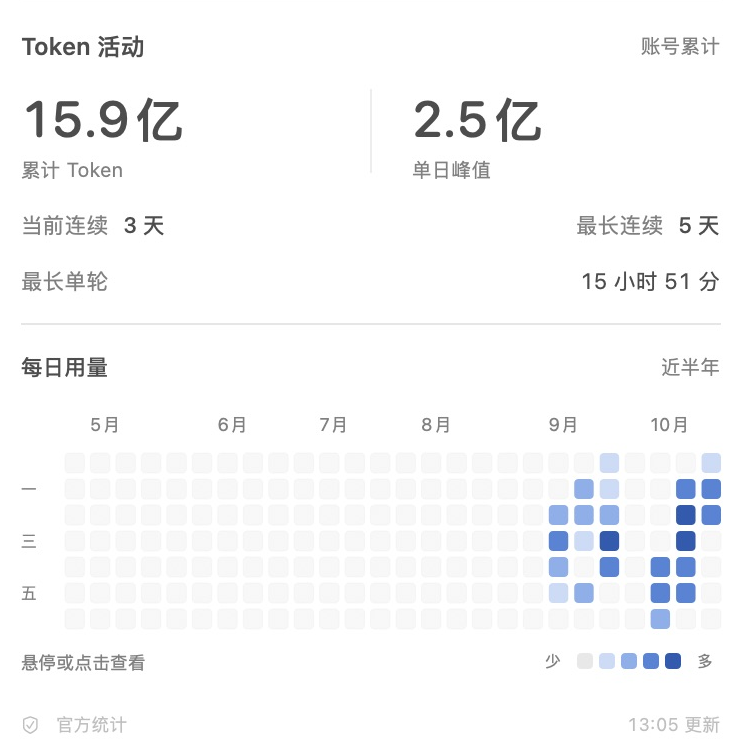
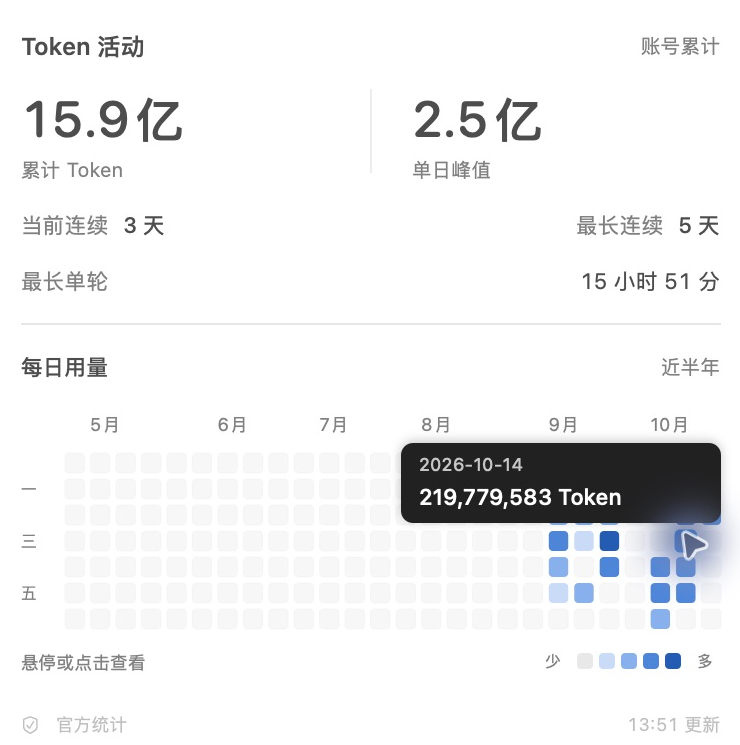
Add actual stacked menu bar and heatmap tooltip screenshots

Changed region(s): [[0.5284, 0.5866, 0.9946, 0.8027], [0.9014, 0.957, 0.9324, 0.9879]]

diff --git a/README.md b/README.md
@@ -28,6 +28,12 @@ CodexUsageBar 是一个轻量的原生 macOS 菜单栏工具，使用 Swift、Ap
 
 以下为维护者在 macOS 上运行 **v0.1.1** 的实际截图（2026-10-21），账号信息已遮盖。额度和 Token 数值仅代表截图时的账号状态；界面当前为中文。
 
+### 菜单栏实际效果
+
+原生菜单栏双行显示：上方为 **7 天剩余与重置日期**，下方为 **5 小时剩余与重置时间**，左侧为 Codex 图标。点击后展开额度面板；显示内容、标签和分隔符均可在设置中调整。
+
+<img src="docs/images/screenshots/menubar-live.png" width="440" alt="macOS 菜单栏实际双行效果：上方 7d 75% / 10-27，下方 5h 98% / 18:52，点击展开 CodexUsageBar 面板；账号已遮盖">
+
 ### 额度面板与 Token 活动
 
 点击菜单栏即可查看两个独立窗口的剩余额度、重置时间及核验状态；下方展示累计 Token、单日峰值、连续活跃天数与近半年每日活动。热力图支持悬停或点击日期查看详情。
@@ -35,11 +41,11 @@ CodexUsageBar 是一个轻量的原生 macOS 菜单栏工具，使用 Swift、Ap
 <table>
   <tr>
     <th>完整额度面板</th>
-    <th>Token 统计与活动热力图（局部）</th>
+    <th>Token 统计与热力图日期提示（局部）</th>
   </tr>
   <tr>
     <td valign="top"><img src="docs/images/screenshots/quota-panel.png" width="360" alt="CodexUsageBar 实际额度面板：5 小时与 7 天剩余额度、重置时间、Token 统计和热力图"></td>
-    <td valign="top"><img src="docs/images/screenshots/token-activity.png" width="460" alt="Token 累计、单日峰值、连续活跃天数、最长单轮与每日活动热力图"></td>
+    <td valign="top"><img src="docs/images/screenshots/token-activity.png" width="460" alt="Token 统计与活动热力图，日期提示框显示 2026-10-14 和 219,779,583 Token"></td>
   </tr>
 </table>
 

diff --git a/README.en.md b/README.en.md
@@ -27,15 +27,21 @@ This is an independent community project, not an official OpenAI application or 
 
 Captured from **v0.1.1** running on the maintainer's Mac on 2026-10-21. Account information has been covered. Quota and token values reflect only the account state at capture time. The current UI is Chinese.
 
+### Actual menu bar appearance
+
+The native menu bar shows two stacked rows: **weekly remaining allowance and reset date** above **5-hour remaining allowance and reset time**, with the Codex icon on the left. Click to open the quota panel. Displayed metrics, labels, and separators are configurable.
+
+<img src="docs/images/screenshots/menubar-live.png" width="440" alt="Actual macOS menu bar: 7d 75% / 10-27 above 5h 98% / 18:52, with the CodexUsageBar panel open and account covered">
+
 ### Quota panel and token activity
 
 Click the menu bar item to see remaining allowance, reset times, and validation status for two independent windows. The panel also shows lifetime tokens, peak daily usage, activity streaks, and six months of daily activity. Hover over or click a heatmap date to inspect details.
 
 <table>
-  <tr><th>Full quota panel</th><th>Token activity detail (crop)</th></tr>
+  <tr><th>Full quota panel</th><th>Token activity and date tooltip (crop)</th></tr>
   <tr>
     <td valign="top"><img src="docs/images/screenshots/quota-panel.png" width="360" alt="Actual quota panel with short-term and weekly allowance, resets, token summaries, and heatmap"></td>
-    <td valign="top"><img src="docs/images/screenshots/token-activity.png" width="460" alt="Lifetime and peak tokens, activity streaks, longest turn, and daily heatmap"></td>
+    <td valign="top"><img src="docs/images/screenshots/token-activity.png" width="460" alt="Token summaries and daily heatmap with a tooltip showing 2026-10-14 and 219,779,583 Token"></td>
   </tr>
 </table>
 
